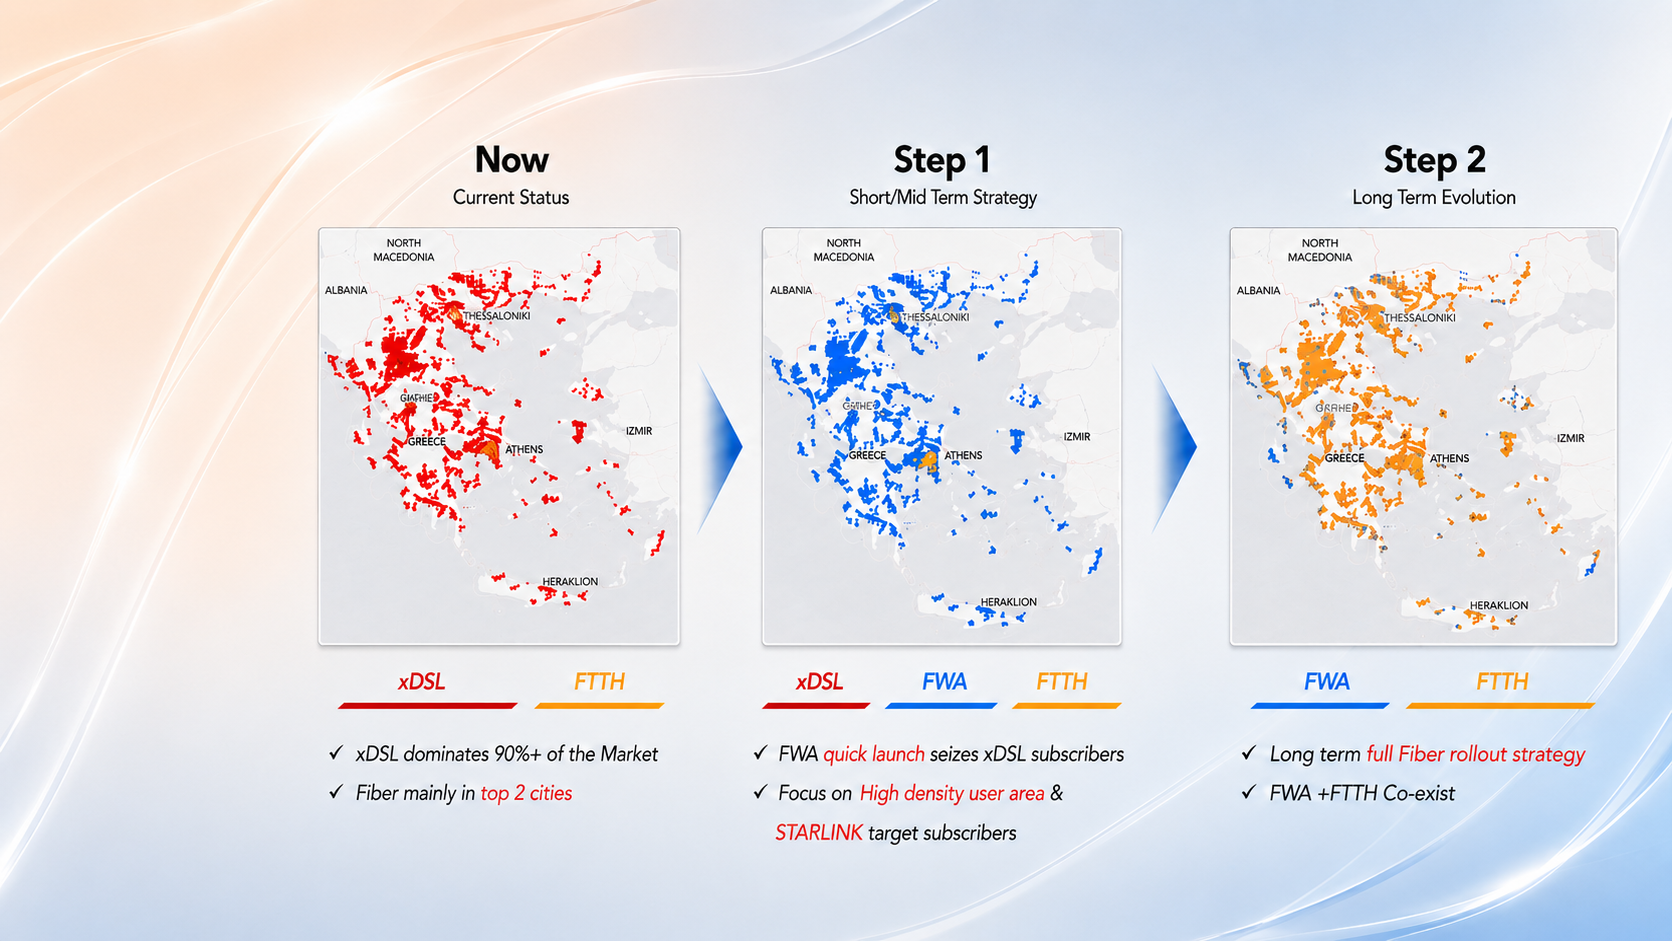
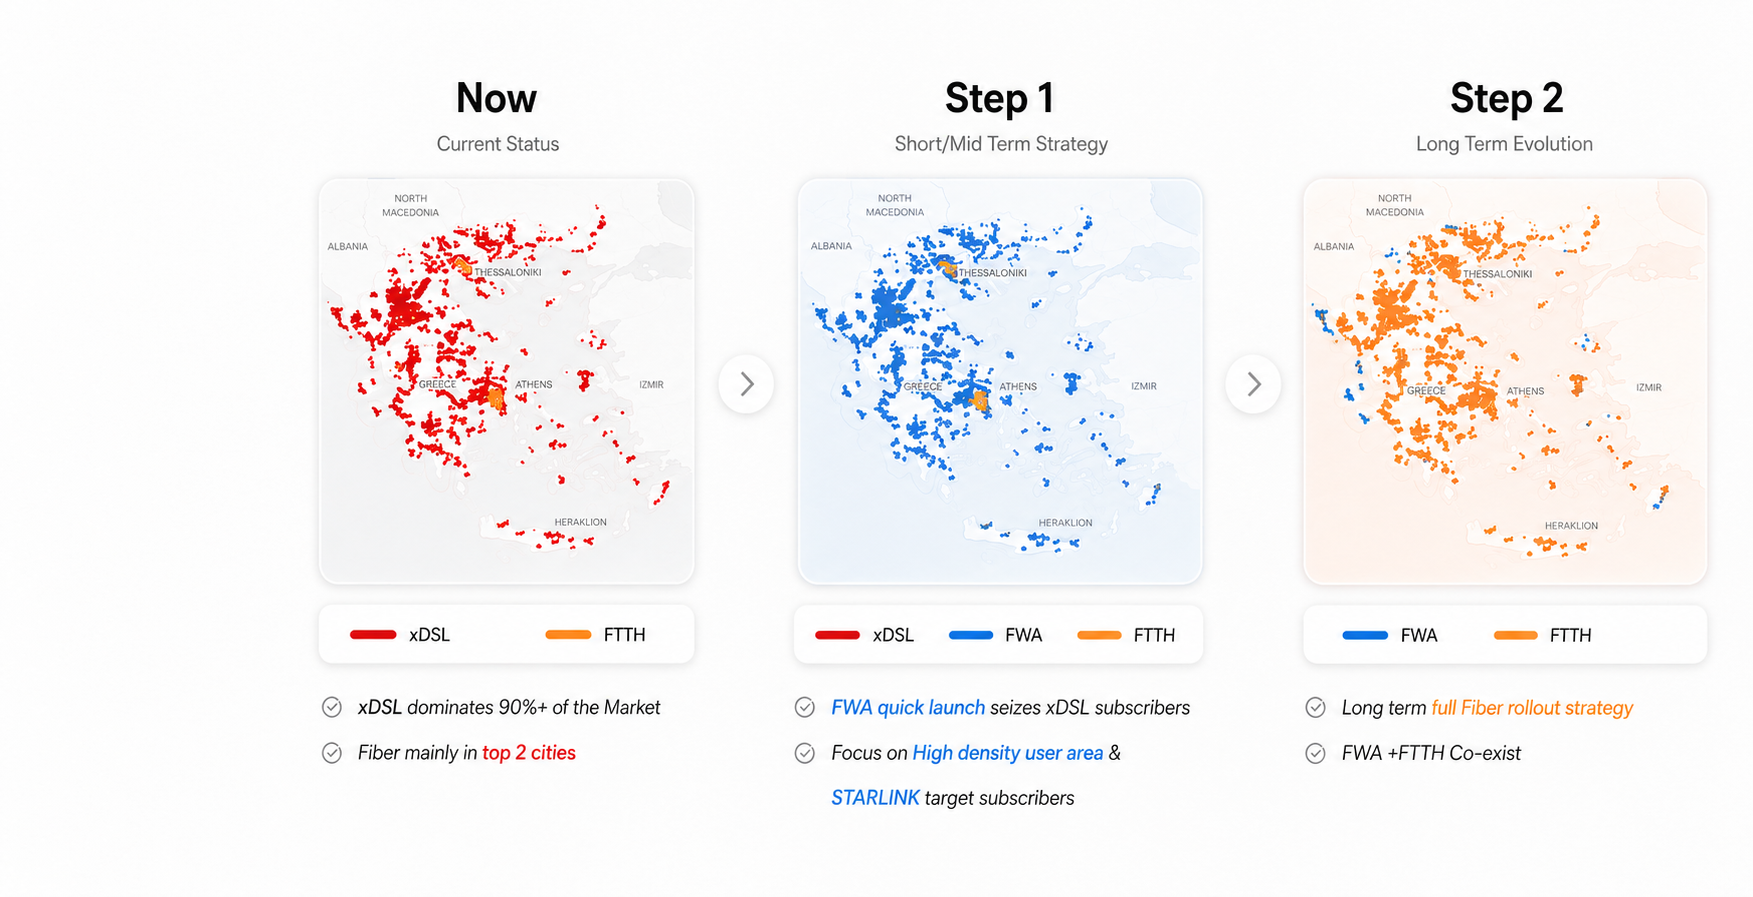
Refine NOVA showcase image rendering and border design QA

diff --git a/src/styles.css b/src/styles.css
@@ -11,7 +11,6 @@
   --accent: #5576fc;
   --accent-text: #4563df;
   --project-panel: #ffffff;
-  --showcase-outline: #2c3139;
   --showcase-shadow: 0 18px 28px rgb(17 19 24 / 18%), 0 6px 10px rgb(17 19 24 / 10%);
   --focus-ring: #2f55f5;
   --role-0: #3157d5;
@@ -39,7 +38,6 @@
   --accent: #8da4ff;
   --accent-text: #8da4ff;
   --project-panel: #121419;
-  --showcase-outline: #4b515d;
   --showcase-shadow: 0 22px 34px rgb(0 0 0 / 55%), 0 8px 14px rgb(0 0 0 / 34%);
   --focus-ring: #a8b8ff;
   --role-0: #8da4ff;
@@ -399,10 +397,8 @@ button { color: inherit; }
   left: 0;
   width: 79%;
   overflow: hidden;
-  border: 1px solid var(--showcase-outline);
-  border-right: 0;
+  border: 0;
   border-radius: 18px;
-  border-color: transparent;
   background: var(--project-panel);
   clip-path: polygon(0 0, calc(36.7089% + 8px) 0, calc(36.7089% + 58px) 100%, 0 100%);
   filter: none;
@@ -434,7 +430,7 @@ button { color: inherit; }
   top: 0;
   right: 0;
   bottom: 0;
-  width: 70%;
+  width: 71%;
   overflow: hidden;
   border: 0;
   border-radius: 18px;
@@ -445,32 +441,23 @@ button { color: inherit; }
 }
 .strategic-showcase__media-frame { position: absolute; z-index: 1; inset: 0; overflow: hidden; border: 0; border-radius: inherit; background: var(--surface-alt); clip-path: none; }
 .strategic-showcase__image { position: absolute; inset: 0; z-index: 1; width: 100%; height: 100%; object-fit: cover; }
-.strategic-showcase__image[src$='greece-nova-5g-fwa.png'] { transform: translateX(-6%) scale(1.13); }
+.strategic-showcase__image[src$='greece-nova-5g-fwa.png'] { object-fit: contain; background: #fff; transform: none; }
 .strategic-showcase__image--enter { z-index: 2; }
-
-.strategic-showcase__copy-shell::after,
-.strategic-showcase__media::before {
+[data-theme='light'] .strategic-showcase:has(.strategic-showcase__image--enter[src$='greece-nova-5g-fwa.png']) .strategic-showcase__media-frame::after {
   content: '';
   position: absolute;
-  z-index: 4;
-  top: 0;
-  bottom: 0;
-  width: 52px;
-  background: var(--showcase-outline);
-  clip-path: polygon(0 0, 1px 0, 100% 100%, calc(100% - 1px) 100%);
-  opacity: 0;
+  z-index: 3;
+  inset: 0 auto 0 0;
+  width: 140px;
+  background: linear-gradient(96deg, rgb(17 19 24 / 8%), transparent 72%);
   pointer-events: none;
 }
-.strategic-showcase__copy-shell::after { left: calc(36.7089% + 7px); }
-.strategic-showcase__media::before { left: 7px; }
-.strategic-showcase[data-entered='true'] .strategic-showcase__copy-shell::after,
-.strategic-showcase[data-entered='true'] .strategic-showcase__media::before { animation: showcase-seam-reveal 100ms linear 850ms both; }
 
 .strategic-showcase[data-entered='false'] .strategic-showcase__copy-shell,
 .strategic-showcase[data-entered='false'] .strategic-showcase__copy-stage { clip-path: polygon(0 0, 100% 0, 100% 100%, 0 100%); }
 .strategic-showcase[data-entered='false'] .strategic-showcase__media { clip-path: polygon(71.4286% 0, 100% 0, 100% 100%, 71.4286% 100%); }
 .strategic-showcase[data-entered='false'] .strategic-showcase__copy--enter { opacity: 0; }
-.strategic-showcase[data-entered='true'] .strategic-showcase__copy-shell { animation: showcase-copy-panel-settle 350ms linear 500ms both, showcase-border-reveal 100ms linear 850ms both; }
+.strategic-showcase[data-entered='true'] .strategic-showcase__copy-shell { animation: showcase-copy-panel-settle 350ms linear 500ms both; }
 .strategic-showcase[data-entered='true'] .strategic-showcase__copy-stage { animation: showcase-copy-mask-settle 350ms linear 500ms both; }
 .strategic-showcase[data-entered='true'] .strategic-showcase__media { animation: showcase-media-panel-expand 350ms linear 500ms both; }
 .strategic-showcase[data-entered='true'][data-direction='next'] .strategic-showcase__copy--enter { animation: showcase-copy-enter-next 700ms cubic-bezier(.22, 1, .36, 1) 700ms both; }
@@ -483,8 +470,6 @@ button { color: inherit; }
 .strategic-showcase__progress button[aria-current='true'] { background: var(--accent); }
 
 @keyframes showcase-copy-enter-next { from { opacity: 0; clip-path: inset(0 0 0 100%); transform: translateX(28px); } to { opacity: 1; clip-path: inset(0); transform: translateX(0); } }
-@keyframes showcase-seam-reveal { to { opacity: 1; } }
-@keyframes showcase-border-reveal { to { border-color: var(--showcase-outline); } }
 @keyframes showcase-copy-panel-settle {
   0% { clip-path: polygon(0 0, 100% 0, 100% 100%, 0 100%); }
   8% { clip-path: polygon(0 0, calc(94.9367% + .64px) 0, calc(94.9367% + 22.64px) 100%, 0 100%); }
@@ -576,13 +561,12 @@ button { color: inherit; }
   .strategic-showcase::before { display: none; }
   .strategic-showcase__copy-shell,
   .strategic-showcase__media { position: relative; inset: auto; width: 100%; clip-path: none; animation: none !important; }
-  .strategic-showcase__copy-shell::after,
-  .strategic-showcase__media::before { display: none; }
   .strategic-showcase__media { height: 230px; box-shadow: var(--showcase-shadow); }
-  .strategic-showcase__copy-shell { height: 380px; border-color: var(--showcase-outline); border-right: 1px solid var(--showcase-outline); box-shadow: var(--showcase-shadow); }
+  .strategic-showcase__copy-shell { height: 380px; box-shadow: var(--showcase-shadow); }
   .strategic-showcase__copy-stage { clip-path: none; animation: none !important; }
   .strategic-showcase__copy { width: 100%; padding: 28px 24px; }
   .strategic-showcase__media-frame { inset: 0; clip-path: none; animation: none !important; }
+  [data-theme='light'] .strategic-showcase:has(.strategic-showcase__image--enter[src$='greece-nova-5g-fwa.png']) .strategic-showcase__media-frame::after { display: none; }
   .strategic-showcase__image,
   .strategic-showcase__image[src$='greece-nova-5g-fwa.png'] { transform: none; }
   .strategic-showcase__statement h3 { font-size: 28px; }
@@ -603,8 +587,5 @@ button { color: inherit; }
   .strategic-showcase__copy-stage,
   .strategic-showcase__media,
   .strategic-showcase__media-frame { animation: none !important; transition: none !important; }
-  .strategic-showcase__copy-shell::after,
-  .strategic-showcase__media::before { opacity: 1; animation: none !important; }
   .strategic-showcase::before { opacity: 1; transition: none !important; }
-  .strategic-showcase__copy-shell { border-color: var(--showcase-outline); }
 }

diff --git a/src/styles.test.ts b/src/styles.test.ts
@@ -30,7 +30,7 @@ describe('light-first theme styles', () => {
     expect(styles).not.toContain(".site-header[data-section='gtm']");
     expect(styles).toMatch(/\.strategic-showcase\s*\{[^}]*height:\s*clamp\(440px, 37vw, 560px\)/s);
     expect(styles).toMatch(/\.strategic-showcase__copy-shell\s*\{[^}]*width:\s*79%;/s);
-    expect(styles).toMatch(/\.strategic-showcase__media\s*\{[^}]*width:\s*70%;/s);
+    expect(styles).toMatch(/\.strategic-showcase__media\s*\{[^}]*width:\s*71%;/s);
     expect(styles).toMatch(
       /\.strategic-showcase__copy-shell\s*\{[^}]*background:\s*var\(--project-panel\);/s,
     );
@@ -46,18 +46,18 @@ describe('light-first theme styles', () => {
   });
 
   test('floats and rounds both showcase cards while the media fills its frame', () => {
-    expect(styles).toContain('--showcase-outline: #2c3139');
+    expect(styles).not.toContain('--showcase-outline');
     expect(styles).toContain('--showcase-shadow: 0 18px 28px rgb(17 19 24 / 18%)');
-    expect(styles).toMatch(/\[data-theme='dark'\]\s*\{[^}]*--showcase-outline:\s*#4b515d/s);
-    expect(styles).toMatch(/\.strategic-showcase__copy-shell\s*\{[^}]*border:\s*1px solid var\(--showcase-outline\);[^}]*border-right:\s*0;[^}]*border-radius:\s*18px;[^}]*filter:\s*none/s);
+    expect(styles).toMatch(/\.strategic-showcase__copy-shell\s*\{[^}]*border:\s*0;[^}]*border-radius:\s*18px;[^}]*filter:\s*none/s);
     expect(styles).toMatch(/\.strategic-showcase::before\s*\{[^}]*left:\s*0;[^}]*right:\s*0;[^}]*border-radius:\s*18px;[^}]*box-shadow:\s*var\(--showcase-shadow\)/s);
     expect(styles).toMatch(/\.strategic-showcase__media\s*\{[^}]*border:\s*0;[^}]*border-radius:\s*18px;[^}]*background:\s*transparent;[^}]*filter:\s*none/s);
     expect(styles).toMatch(/\.strategic-showcase__media-frame\s*\{[^}]*inset:\s*0;[^}]*border:\s*0;[^}]*border-radius:\s*inherit;[^}]*clip-path:\s*none/s);
-    expect(styles).toMatch(/\.strategic-showcase__copy-shell::after,[\s\S]*?background:\s*var\(--showcase-outline\);[^}]*clip-path:\s*polygon/s);
-    expect(styles).toMatch(/\.strategic-showcase\[data-entered='true'\][\s\S]*?showcase-seam-reveal 100ms linear 850ms both/s);
-    expect(styles).toContain('@keyframes showcase-seam-reveal');
-    expect(styles).toContain('@keyframes showcase-border-reveal');
-    expect(styles).toContain("translateX(-6%) scale(1.13)");
+    expect(styles).not.toContain('.strategic-showcase__copy-shell::after');
+    expect(styles).not.toContain('showcase-seam-reveal');
+    expect(styles).not.toContain('showcase-border-reveal');
+    expect(styles).toMatch(/\.strategic-showcase__image\[src\$='greece-nova-5g-fwa\.png'\]\s*\{[^}]*object-fit:\s*contain;[^}]*background:\s*#fff;[^}]*transform:\s*none/s);
+    expect(styles).not.toContain('background: #f3f4f6');
+    expect(styles).toMatch(/\[data-theme='light'\] \.strategic-showcase:has\(\.strategic-showcase__image--enter\[src\$='greece-nova-5g-fwa\.png'\]\) \.strategic-showcase__media-frame::after\s*\{[^}]*width:\s*140px;[^}]*background:\s*linear-gradient\(96deg, rgb\(17 19 24 \/ 8%\), transparent 72%\)/s);
     expect(styles).toMatch(/@media \(max-width: 767px\)[\s\S]*?\.strategic-showcase\s*\{[^}]*gap:\s*16px/s);
     expect(styles).toMatch(/@media \(max-width: 767px\)[\s\S]*?\.strategic-showcase__copy-shell\s*\{[^}]*box-shadow:\s*var\(--showcase-shadow\)/s);
   });

diff --git a/design-qa.md b/design-qa.md
@@ -1,39 +1,33 @@
-# Experience Card Design QA
+# NOVA Showcase Image and Border Design QA
 
 ## Evidence
 
-- Source visual truth:
-  - `C:\Users\PC\AppData\Local\Temp\codex-clipboard-58db0229-faf0-4bc3-a072-4fd7ffa08889.png` (1103 × 935, collapsed cards)
-  - `C:\Users\PC\AppData\Local\Temp\codex-clipboard-f649de74-1e6d-488e-91b2-78b4151335fd.png` (1187 × 751, expanded card)
-- Implementation:
-  - `C:\Users\PC\AppData\Local\Temp\32-experience-cards-closed.jpg` (1425 × 891 capture from a 1440 × 900 CSS viewport)
-  - `C:\Users\PC\AppData\Local\Temp\33-experience-card-open.jpg` (1425 × 891 capture from a 1440 × 900 CSS viewport)
-  - `C:\Users\PC\AppData\Local\Temp\34-experience-cards-mobile.jpg` (375 × 811 capture from a 390 × 844 CSS viewport)
-  - `C:\Users\PC\AppData\Local\Temp\36-experience-cards-dark-fixed.jpg` (1425 × 891 capture from a 1440 × 900 CSS viewport)
-  - `C:\Users\PC\AppData\Local\Temp\38-experience-unsw-monochrome.jpg` (1425 × 891 capture from a 1440 × 900 CSS viewport)
-- Browser density: 1 CSS pixel per screenshot pixel before the browser scrollbar area is excluded.
-- States: light collapsed, light expanded, mobile expanded, and dark collapsed.
[1 lines of base64/hex data omitted]
+- Light implementation: `C:\Users\PC\AppData\Local\Temp\personal-website-nova-gradient-light.png` (1265 × 712).
+- Dark implementation: `C:\Users\PC\AppData\Local\Temp\personal-website-nova-separated-dark.png` (1265 × 712).
+- Focused comparison: `C:\Users\PC\AppData\Local\Temp\personal-website-nova-image-comparison.png` (845 × 866); source normalized to 845 × 433 above, rendered media crop at 845 × 433 below.
+- Environment: `http://localhost:5173/#gtm`, 1280 × 720 CSS viewport, DPR 1.25, NOVA project selected.
 
 ## Comparison
 
-- Full view: the implementation keeps the portfolio's existing two-column Experience composition while adopting the reference's separated cards, visible gaps, fine outlines, light corner rounding, and full-card disclosure affordance.
-- Focused card region: card padding, logo-to-copy alignment, date placement, chevron rotation, and expanded detail separation were readable at capture scale, so a separate crop was not required.
-- Typography: the existing DM Sans/Manrope hierarchy is intentionally retained; organization names remain primary, with role and dates subordinate.
-- Spacing and rhythm: 14 px desktop and 12 px mobile card gaps create the reference's independent-card rhythm without changing the section grid.
-- Colors and tokens: cards use the existing light/dark surface, border, text, and accent tokens. Reference-only multicolor edge strips were intentionally omitted because the requested change was the framed card treatment and they conflict with the approved neutral business system.
-- Image quality: all six images use frameless `contain` slots and remain complete without clipping. Dark mode uses a dedicated high-contrast UNSW asset, with Huawei, Rexel, and UNSW rendered monochrome.
-- Copy: all existing organizations, roles, date ranges, stages, and summaries are preserved.
-- Interaction: clicking the Huawei Greece summary changed its native `<details>` state from closed to open, rotated the chevron, and revealed the existing description. Automated coverage confirms multiple cards can stay open independently.
-- Console: no relevant warnings or errors in the checked states.
+- Full view: the supplied NOVA progression graphic replaces the previous asset and remains balanced against the left project copy in both themes.
+- Focused region: all three headings, maps, arrows, legends, and supporting statements remain visible. `object-fit: contain` preserves the 1.95:1 source ratio without stretching or edge crop.
+- Typography: source-image typography remains raster-authentic; site DM Sans/Manrope hierarchy and wrapping are unchanged.
+- Spacing and layout rhythm: the image keeps its authored white breathing room; card size, internal copy padding, radii, and elevation are unchanged.
+- Colors and tokens: the copy panel keeps the same white surface as every other light-mode project; a subtle NOVA-only gray gradient fades across the image side of the diagonal boundary, while borders remain absent.
+- Image quality: the deployed asset hash exactly matches the supplied PNG. Browser downscaling is clean with no transparency halo or distortion.
+- Copy and content: site copy is unchanged; the new image's embedded labels are preserved verbatim.
+- Interaction: Next Project and project 1 selection were exercised; the new image returned correctly after the transition.
+- Console: no relevant warnings or errors.
 
 ## Comparison History
 
-1. Initial comparison found a P2 dark-theme image contrast issue: black Huawei and UNSW wordmark text blended into the dark card surface.
-2. Replaced the UNSW inversion with a dedicated dark asset, then applied grayscale so the complete mark is monochrome.
-3. Added dark-theme grayscale treatments to Rexel and UNSW; capture `38-experience-unsw-monochrome.jpg` shows both updates clearly.
+1. Initial P2: the previous NOVA image used a different composition and was enlarged/cropped; the left outline was near-black and the diagonal seam was explicitly drawn.
+2. Fix: replaced the public asset with the supplied PNG, switched the NOVA image to contained rendering, removed every copy-panel border and both diagonal seam pseudo-elements, then added a NOVA-only gradient on the image side.
+3. Post-fix: the copy panel color stays consistent across projects, the light NOVA boundary remains readable without a drawn edge, and the gradient disappears on other projects and in dark mode.
 
 ## Remaining Findings
 
-- No actionable P0, P1, or P2 findings remain.
+- P3: the 1280 × 720 desktop states were visually checked; mobile behavior remains covered by the existing responsive CSS and automated style checks rather than a new screenshot.
 
 final result: passed
